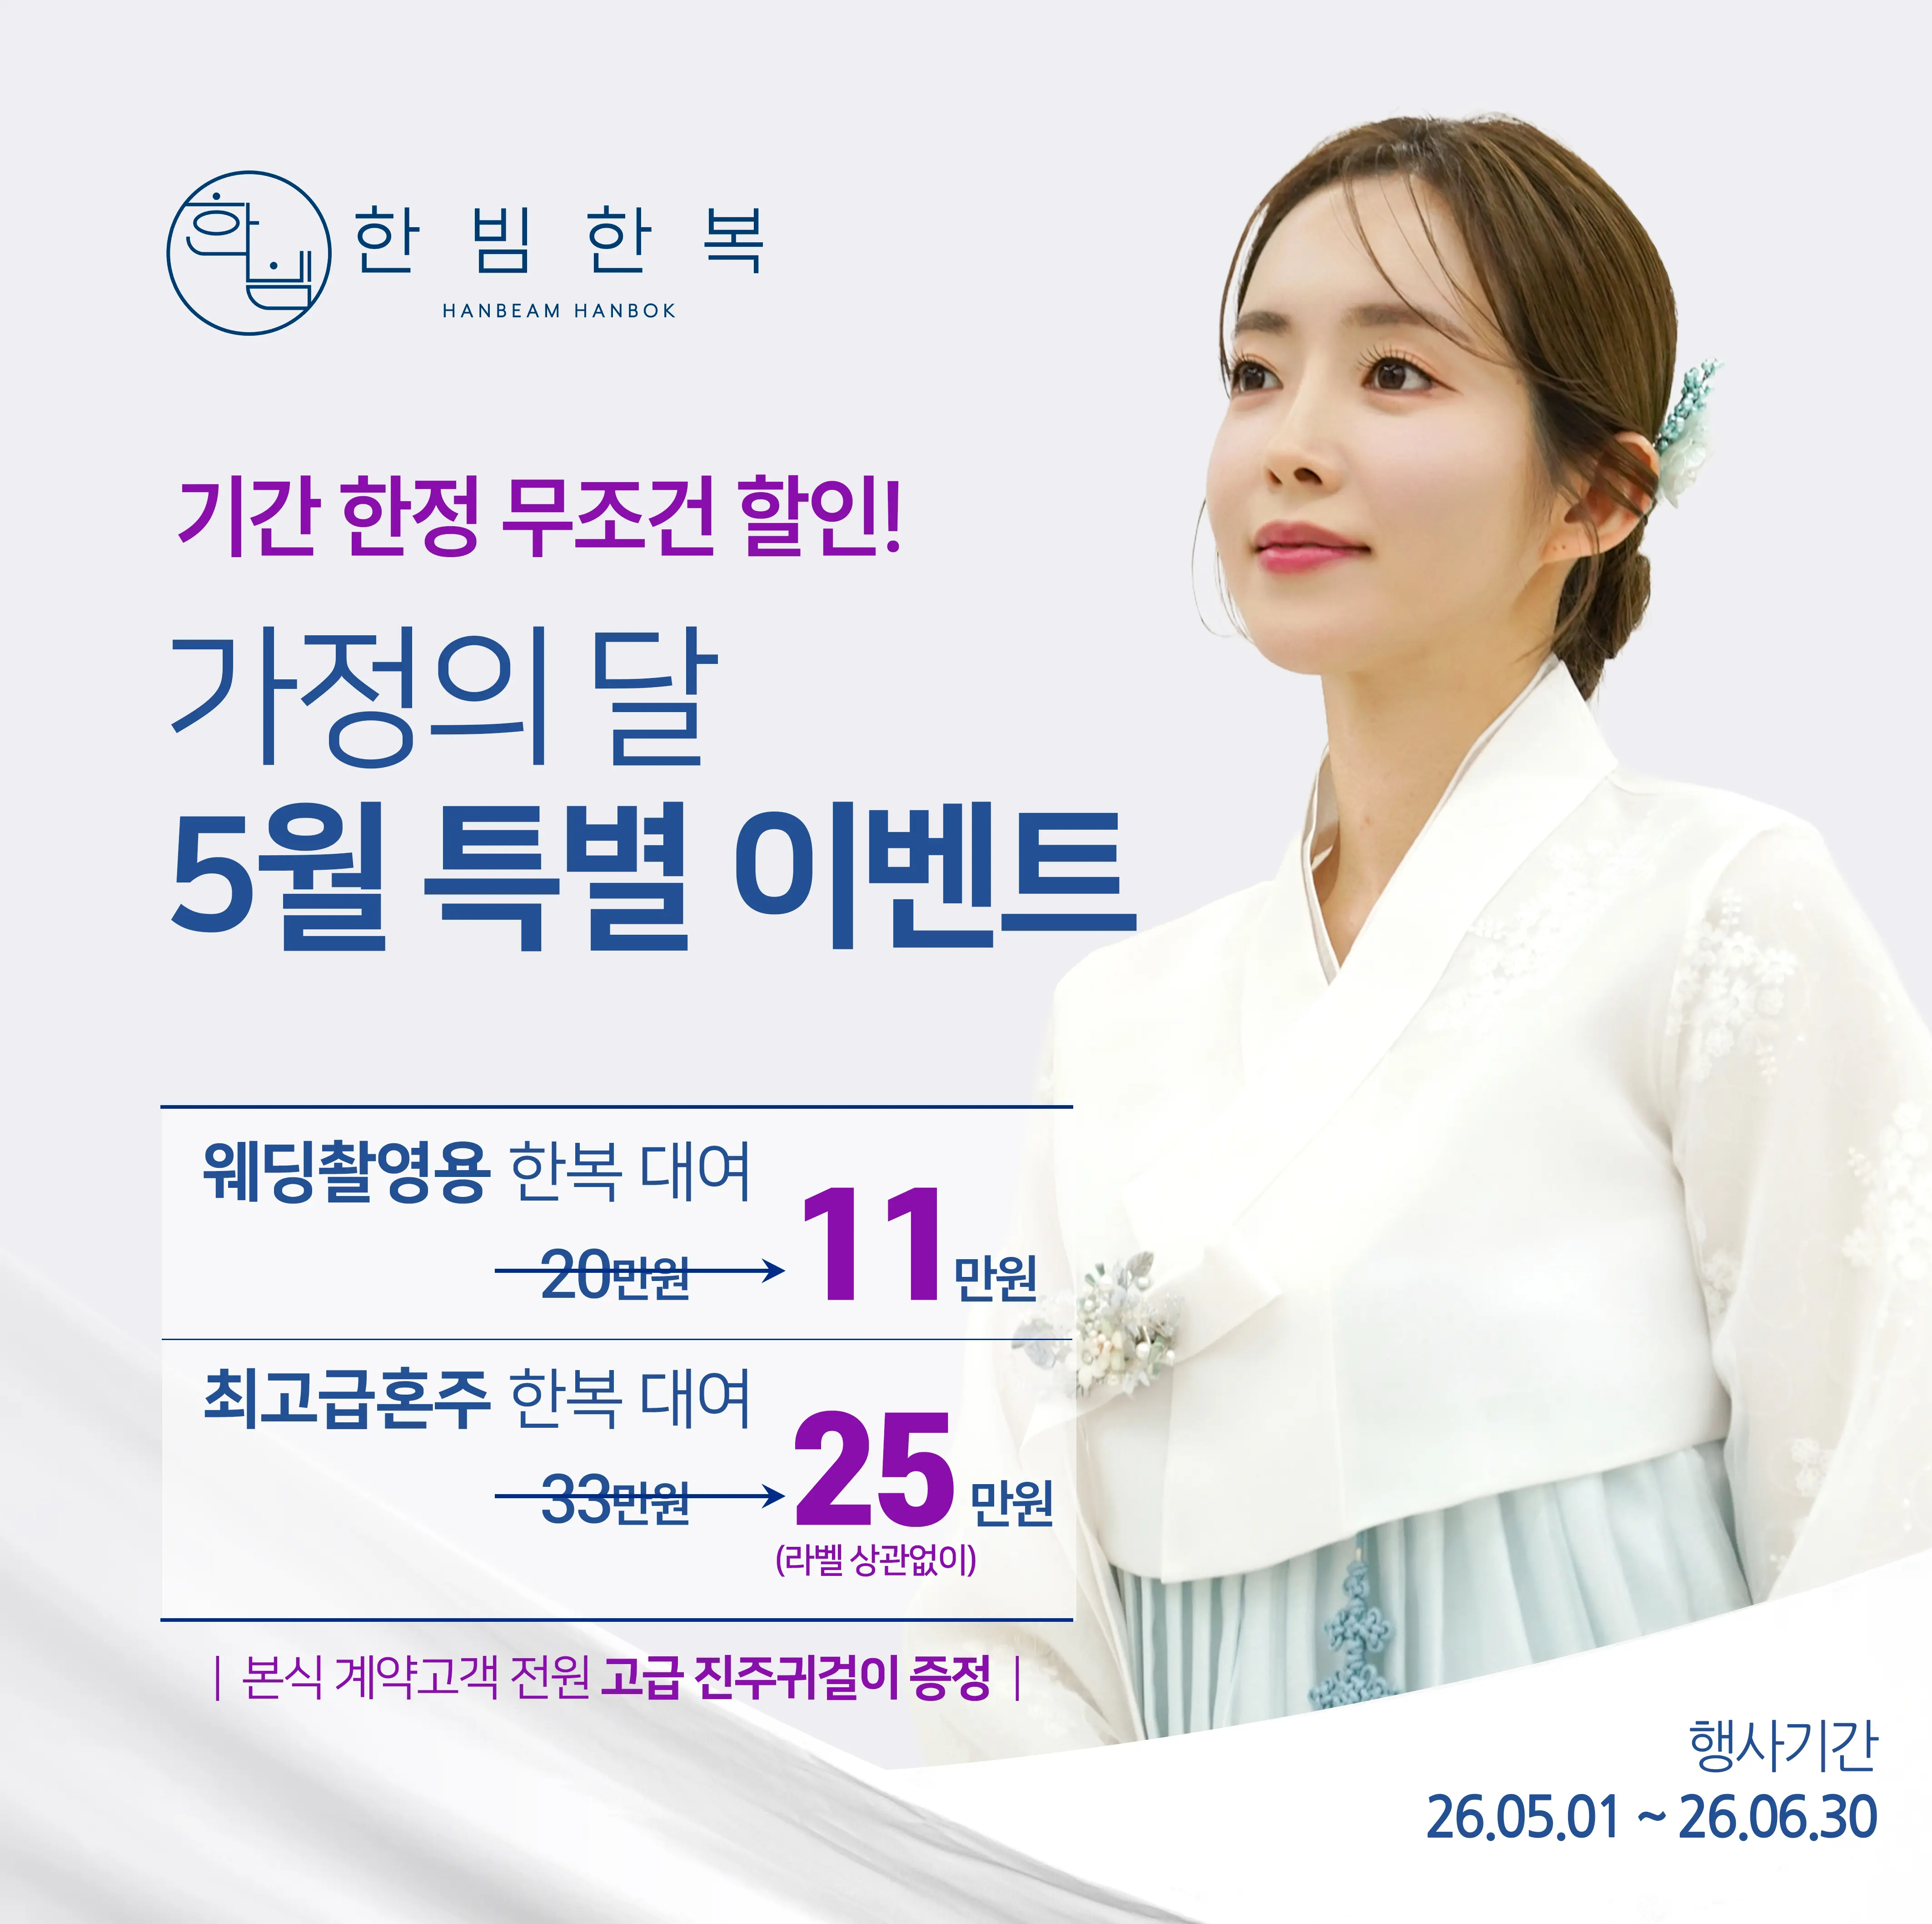
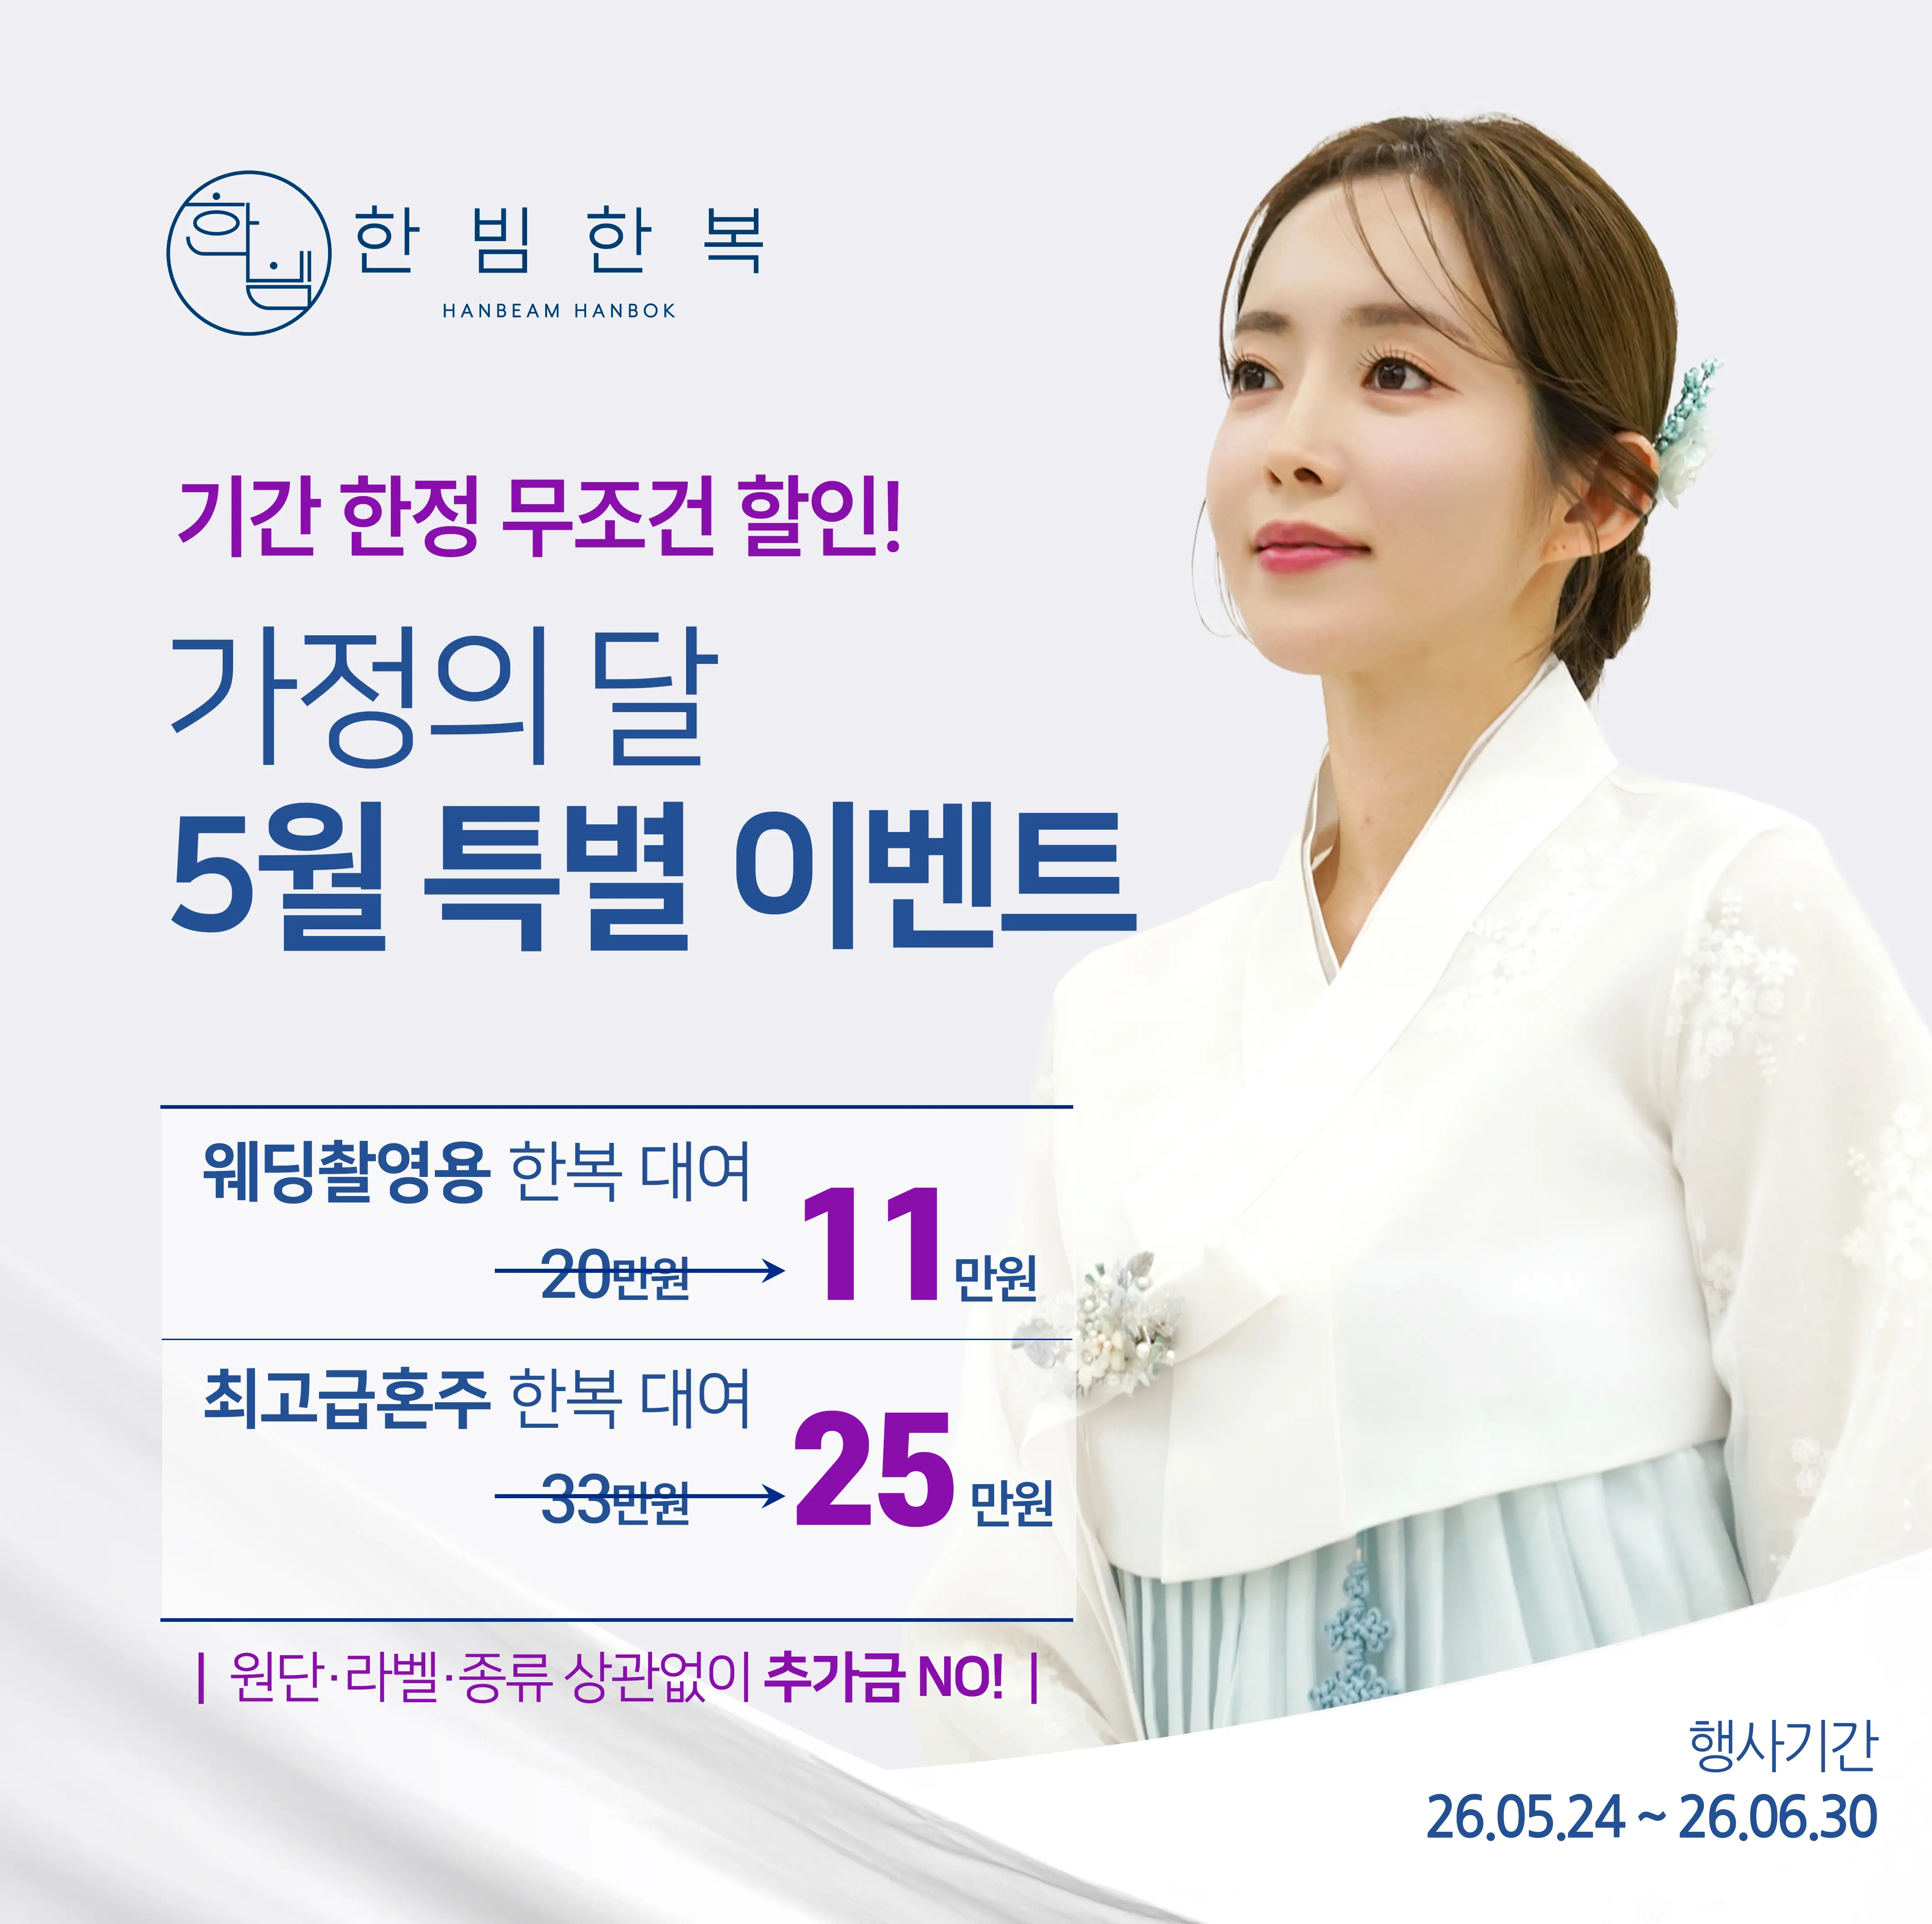
Add files via upload

Changed region(s): [[0.1242, 0.7794, 0.5278, 0.9041], [0.8071, 0.9353, 0.8382, 0.9665], [0.4657, 0.7794, 0.4967, 0.8106]]

diff --git a/jj/index.html b/jj/index.html
@@ -74,7 +74,7 @@
 
 <div class="main-wrapper">
     <section class="hero-feed">
-        <img src="/assets/01_25.webp"><img src="/assets/02.webp"><img src="/assets/03.webp">
+        <img src="/assets/01_22.webp"><img src="/assets/02.webp"><img src="/assets/03.webp">
         <img src="/assets/04.webp"><img src="/assets/05.webp"><img src="/assets/06.webp">
     </section>
 